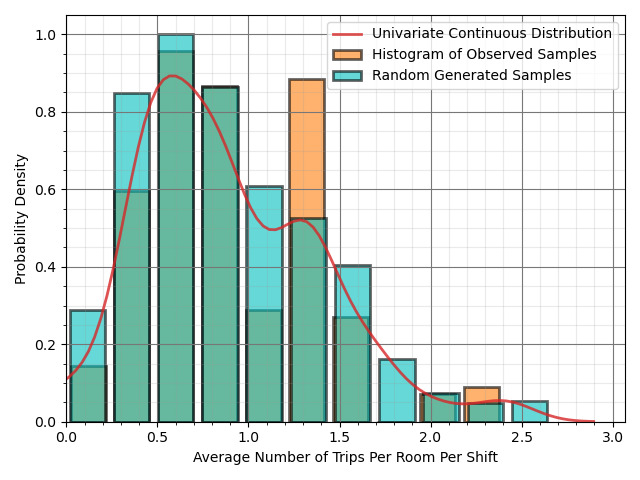
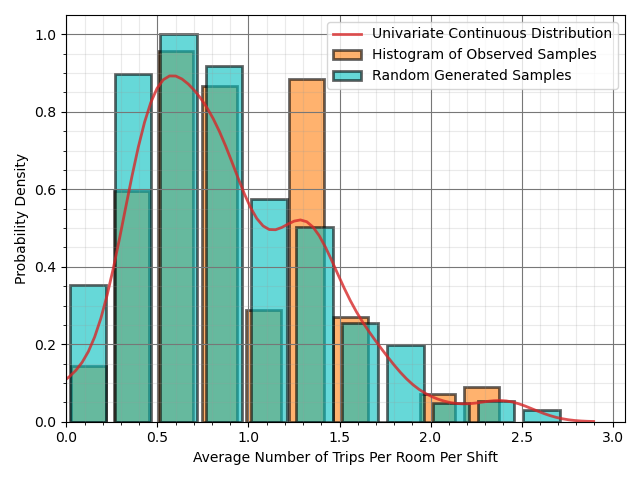
Final project commit, includes all finished code and plots.

Changed region(s): [[0.2812, 0.0625, 0.875, 0.9062], [0.1562, 0.125, 0.25, 0.875], [0.0938, 0.5625, 0.1875, 0.875]]

diff --git a/lds/plotting.py b/lds/plotting.py
@@ -1,6 +1,10 @@
 import seaborn as sb
+import numpy as np
 from matplotlib import cm
 import matplotlib.pyplot as plt
+from matplotlib.cbook import get_sample_data
+from matplotlib._png import read_png
+from mpl_toolkits.mplot3d import axes3d
 import pandas as pd
 import os
 
@@ -23,31 +27,55 @@ for file in entries:
     pivoted1 = df1.pivot(y1_label, x1_label, z_label)
     pivoted2 = df2.pivot(y2_label, x2_label, z_label)
 
-    # Plot results
-    fig, (ax1, ax2, axcb) = plt.subplots(1, 3, gridspec_kw={'width_ratios': [1, 1, 0.08]})
-    ax1.get_shared_y_axes().join(ax2)
-    cmap_reversed = cm.get_cmap('nipy_spectral_r', 100)
-    g1 = sb.heatmap(pivoted1, cmap=cmap_reversed, ax=ax1, cbar=False)
-    g1.set_ylabel('Cart Y-Coordinate [ft]')
-    g1.set_xlabel(' ')
-    g1.set_title('Cart 1 Position')
-    ax1.invert_yaxis()
-    g2 = sb.heatmap(pivoted2, cmap=cmap_reversed, ax=ax2, cbar_ax=axcb)
-    g2.set_ylabel('')
-    g2.set_xlabel(' ')
-    g2.set_title('Cart 2 Position')
-    g2.set_yticks([])
-    ax2.invert_yaxis()
-    axcb.set_ylabel("Load Distance Score [-]")
+    # # Plot heatmap results
+    # fig, (ax1, ax2, axcb) = plt.subplots(1, 3, gridspec_kw={'width_ratios': [1, 1, 0.08]})
+    # ax1.get_shared_y_axes().join(ax2)
+    # cmap_reversed = cm.get_cmap('gist_heat_r', 50)
+    # g1 = sb.heatmap(pivoted1, cmap=cmap_reversed, ax=ax1, cbar=False)
+    # g1.set_ylabel('Cart Y-Coordinate [ft]')
+    # g1.set_xlabel(' ')
+    # g1.set_title('Cart 1 Floor Position')
+    # ax1.invert_yaxis()
+    # g2 = sb.heatmap(pivoted2, cmap=cmap_reversed, ax=ax2, cbar_ax=axcb)
+    # g2.set_ylabel('')
+    # g2.set_xlabel(' ')
+    # g2.set_title('Cart 2 Floor Position')
+    # g2.set_yticks([])
+    # ax2.invert_yaxis()
+    # axcb.set_ylabel("Load Distance Score [-]")
+    #
+    # for ax in [g1, g2]:
+    #     tl = ax.get_xticklabels()
+    #     ax.set_xticklabels(tl, rotation=60)
+    #     tly = ax.get_yticklabels()
+    #     ax.set_yticklabels(tly, rotation=0)
+    #
+    # fig.text(0.5, 0.02, 'Cart X-Coordinate [ft]', ha='center')
+    # plt.show()
+    #
+    # fig.savefig(dirname + r'/plots/heatmap.png')
 
-    for ax in [g1, g2]:
-        tl = ax.get_xticklabels()
-        ax.set_xticklabels(tl, rotation=45)
-        tly = ax.get_yticklabels()
-        ax.set_yticklabels(tly, rotation=0)
 
-    fig.text(0.5, 0.02, 'Cart X-Coordinate [ft]', ha='center')
+    # Plot Hospital Surface and 3D Surface
+    fig = plt.figure()
+    ax = fig.gca(projection='3d')
+    X = df1[x1_label]
+    Y = df1[y1_label]
+    Z = df1[z_label]
+    ax = fig.add_subplot(111, projection='3d')
+    cmap_reversed = cm.get_cmap('gist_heat_r', 50)
+    ax.plot_trisurf(X, Y, Z, cmap=cmap_reversed)
+    ax.set_xlabel('Cart X-Coordinate [ft]')
+    ax.set_ylabel('Cart Y-Coordinate [ft]')
+    ax.set_zlabel(z_label)
+
+    img = plt.imread(dirname + r'/plots/FloorLayout.png')
+    height, width = img.shape[:2]
+    stepX, stepY = 128.0 / width, 124.0 / height
+    X1 = np.arange(0, 128, stepX)
+    Y1 = np.arange(0, 124, stepY)
+    X1, Y1 = np.meshgrid(X1, Y1)
+    ax.plot_surface(X1, Y1, np.atleast_2d(0), rstride=1, cstride=1, facecolors=img)
     plt.show()
-
-    fig.savefig(dirname + r'/plots/heatmap.png')
-    print('finished')
+    fig.savefig(dirname + r'/plots/overlay.png')
+    print()

diff --git a/lds/lds_calculation.py b/lds/lds_calculation.py
@@ -23,29 +23,33 @@ cart_df = pd.read_excel(dirname + r'/data/CartCoordinates.xlsx')
 rm_coord_arr = floor_df.loc[:, 'X Coordinate':'Y Coordinate'].to_numpy()
 ct_coord_arr = cart_df.loc[:, 'X Coordinate':'Y Coordinate'].to_numpy()
 
-# Sample distribution to assign average # of trips per room
-trip_samples = choices(trip_data_from_dist, prob_data_from_dist, k=rm_coord_arr.shape[0])
+base_configuration_load_distance_score_arr = []
+for index in range (100):
+    # Sample distribution to assign average # of trips per room
+    trip_samples = choices(trip_data_from_dist, prob_data_from_dist, k=rm_coord_arr.shape[0])
 
-# Obtain load distance score for base configuration layout
-load_dist = []
-for rm_index in range(rm_coord_arr.shape[0]):
-    rm_xcoord = rm_coord_arr[rm_index][0]
-    rm_ycoord = rm_coord_arr[rm_index][1]
-    ct1_xcoord = ct_coord_arr[0][0]
-    ct1_ycoord = ct_coord_arr[0][1]
-    ct2_xcoord = ct_coord_arr[1][0]
-    ct2_ycoord = ct_coord_arr[1][1]
+    # Obtain load distance score for base configuration layout
+    load_dist = []
+    for rm_index in range(rm_coord_arr.shape[0]):
+        rm_xcoord = rm_coord_arr[rm_index][0]
+        rm_ycoord = rm_coord_arr[rm_index][1]
+        ct1_xcoord = ct_coord_arr[0][0]
+        ct1_ycoord = ct_coord_arr[0][1]
+        ct2_xcoord = ct_coord_arr[1][0]
+        ct2_ycoord = ct_coord_arr[1][1]
 
-    rm_ct1_dist = distance(rm_xcoord, rm_ycoord, ct1_xcoord, ct1_ycoord)
-    rm_ct2_dist = distance(rm_xcoord, rm_ycoord, ct2_xcoord, ct2_ycoord)
+        rm_ct1_dist = distance(rm_xcoord, rm_ycoord, ct1_xcoord, ct1_ycoord)
+        rm_ct2_dist = distance(rm_xcoord, rm_ycoord, ct2_xcoord, ct2_ycoord)
 
-    # Select smaller distance to cart
-    rm_ct_dist = min(rm_ct1_dist, rm_ct2_dist)
+        # Select smaller distance to cart
+        rm_ct_dist = min(rm_ct1_dist, rm_ct2_dist)
 
-    # Calculate current load-distance score
-    load_dist.append(rm_ct_dist*trip_samples[rm_index])
+        # Calculate current load-distance score
+        load_dist.append(rm_ct_dist*trip_samples[rm_index])
 
-base_configuration_load_distance_score = sum(load_dist)
+    base_configuration_load_distance_score_arr.append(sum(load_dist))
+base_configuration_load_distance_score = sum(base_configuration_load_distance_score_arr) \
+                                         / len(base_configuration_load_distance_score_arr)
 
 # Obtain all possible cart locations and corresponding load-distance scores
 floor_xlength = 128.0  # [ft]

diff --git a/main.py b/main.py
@@ -6,4 +6,4 @@
 # import lds.analysis as anas
 
 # Plot the data
-# import lds.plotting as plot
+import lds.plotting as plot
